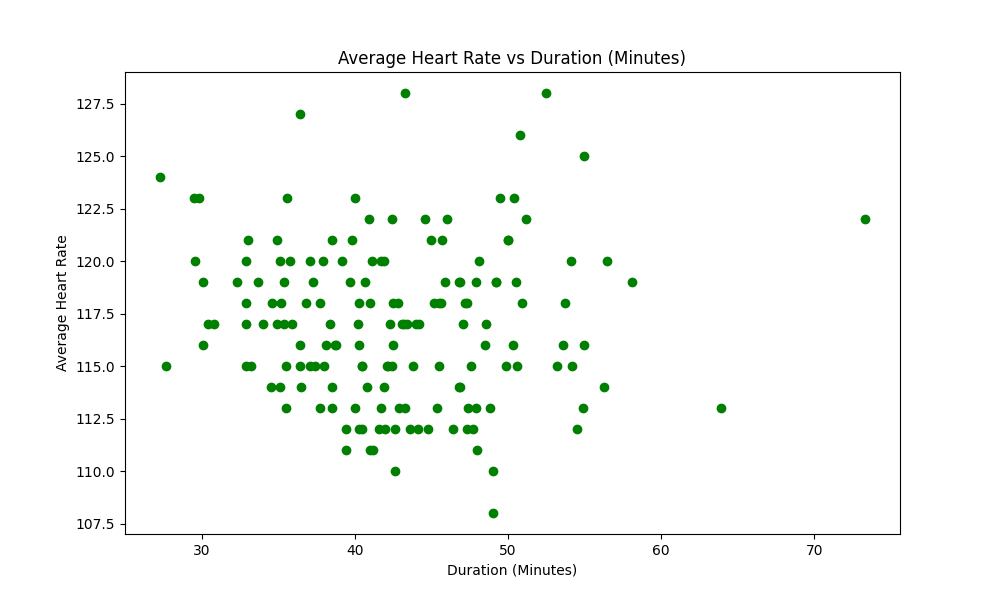
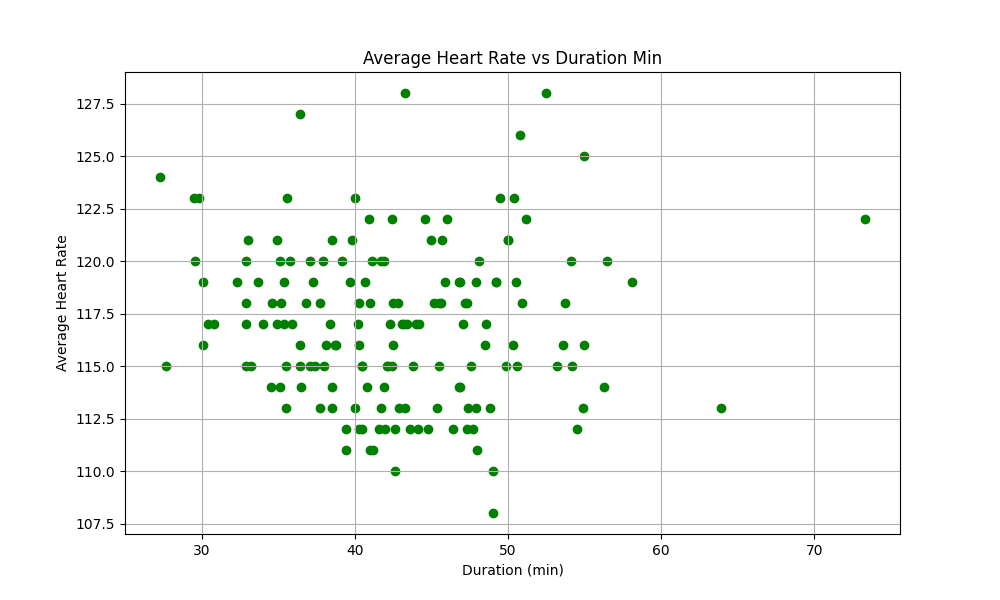
api key env on warmup_07.py and project_07.py edited

Changed region(s): [[0.341, 0.09, 0.682, 0.12], [0.434, 0.93, 0.589, 0.96]]

diff --git a/assignments_07/project_07.py b/assignments_07/project_07.py
@@ -12,7 +12,7 @@ base_dir = Path(__file__).resolve().parent
 repo_dir = base_dir.parent
 
 
-if load_dotenv(dotenv_path=repo_dir / "ao.env"):
+if load_dotenv():
     print("API key loaded successfully.")
 else:
     print("Warning: could not load API key. Check your .env file.")

diff --git a/assignments_07/warmup_07.py b/assignments_07/warmup_07.py
@@ -20,7 +20,7 @@ base_dir = Path(__file__).resolve().parent
 repo_dir = base_dir.parent
 RESOURCES_DIR = Path("assignments_07/resources/")
 
-if load_dotenv(dotenv_path=repo_dir / "ao.env"):
+if load_dotenv():
     print("API key loaded successfully.")
 else:
     print("Warning: could not load API key. Check your .env file.")